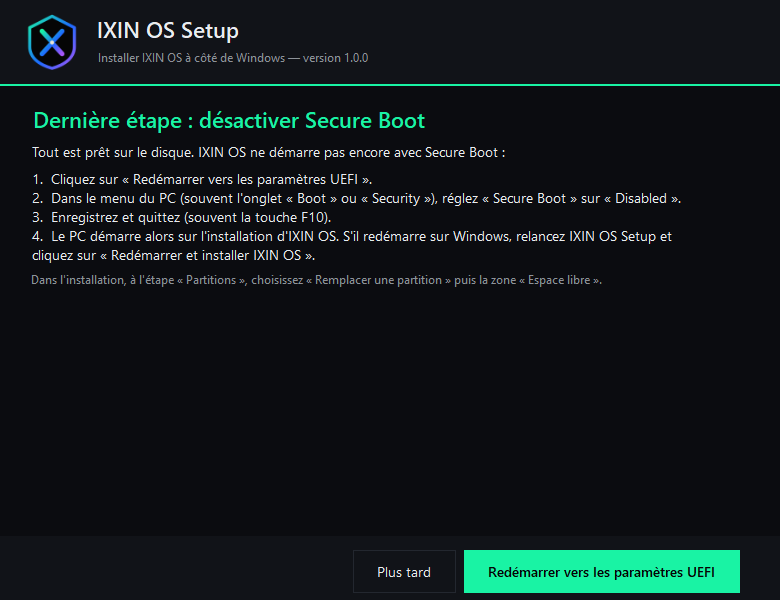
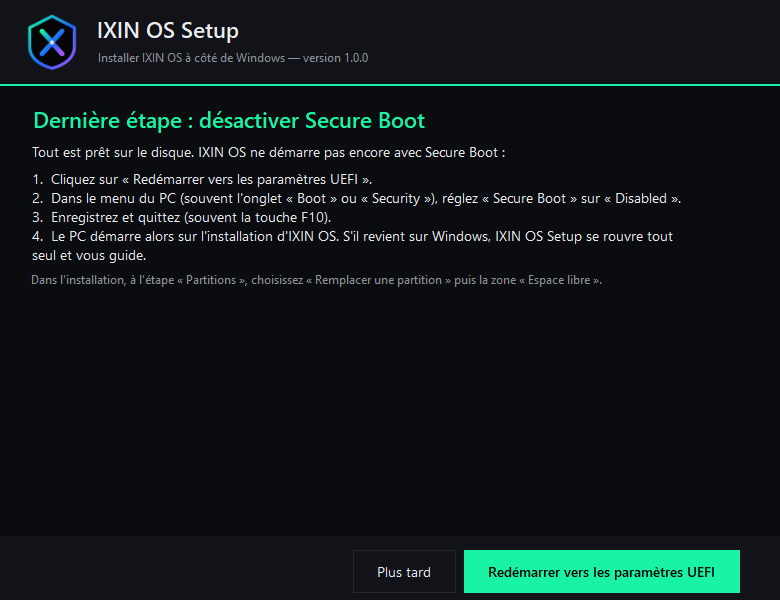
Site os.ixin.online : flux de données publié automatiquement
- tools/prepare-site-feed.py : site/ixin-os.json sur GitHub Pages (version, téléchargements avec
  tailles et SHA-256, nouveautés, guides, captures) + site/release.json, copie de secours de la
  dernière version pour IXIN OS Setup
- publié à chaque modification de docs/ et après chaque version (build-iso appelle publish-repo)
- prévient le site via Cloudflare (cache vidé, deploy hook) si ses secrets sont configurés
- nouvelles captures : retour sur Windows, Secure Boot encore actif, PC incompatible

Claude-Session: https://claude.ai/code/session_012gVJg5y5f1XFaeWzCvqDSH

Changed region(s): [[0.4615, 0.39, 0.8615, 0.42], [0.0308, 0.42, 0.4, 0.45]]

diff --git a/tools/prepare-site-feed.py b/tools/prepare-site-feed.py
@@ -1,0 +1,149 @@
+#!/usr/bin/env python3
+"""IXIN OS — flux de données du site os.ixin.online (publié sur GitHub Pages).
+
+    tools/prepare-site-feed.py <site>
+
+Écrit dans <site>/site/ :
+  ixin-os.json   tout ce que le site affiche et qui change avec les versions : version actuelle,
+                 téléchargements (taille, SHA-256, liens), nouveautés, guides, captures d'écran
+  release.json   copie de la dernière version publiée au format de l'API de GitHub : IXIN OS Setup
+                 l'utilise si l'API refuse la demande (limite de 60 demandes par heure et par adresse)
+  docs/          les guides (Markdown) et screenshots/ les captures d'écran
+
+Le site lit ces fichiers depuis https://hashcat-max.github.io/IXIN-GROUP/site/ : chaque version
+publiée et chaque modification de la documentation y apparaissent sans autre intervention.
+"""
+import datetime
+import json
+import os
+import shutil
+import sys
+import urllib.request
+
+ROOT = os.path.dirname(os.path.dirname(os.path.abspath(__file__)))
+REPOSITORY = os.environ.get("GITHUB_REPOSITORY", "hashcat-max/IXIN-GROUP")
+PAGES = "https://{}.github.io/{}".format(*REPOSITORY.split("/", 1))
+RAW = f"https://raw.githubusercontent.com/{REPOSITORY}/HEAD"
+GUIDES = [
+    ("INSTALLATION-WINDOWS.md", "Installer IXIN OS depuis Windows (sans clé USB)"),
+    ("INSTALLATION-CLE-USB.md", "Installer IXIN OS avec une clé USB (guide pour débutants)"),
+    ("MISES-A-JOUR.md", "Mises à jour d'IXIN OS (IXIN Update)"),
+    ("CONTEXTE-IXIN-OS.md", "Présentation complète d'IXIN OS (fiche de référence)"),
+]
+
+
+def get(url, accept=None):
+    req = urllib.request.Request(url, headers={"User-Agent": "ixin-site-feed"})
+    if accept:
+        req.add_header("Accept", accept)
+    token = os.environ.get("GITHUB_TOKEN") or os.environ.get("GH_TOKEN")
+    if token and url.startswith("https://api.github.com/"):
+        req.add_header("Authorization", "Bearer " + token)
+    with urllib.request.urlopen(req, timeout=60) as r:
+        return r.read()
+
+
+def main(site):
+    out = os.path.join(site, "site")
+    shutil.rmtree(out, ignore_errors=True)
+    os.makedirs(os.path.join(out, "docs"))
+
+    release = json.loads(get(f"https://api.github.com/repos/{REPOSITORY}/releases/latest",
+                             "application/vnd.github+json"))
+    assets = [{
+        "name": a["name"],
+        "size": a["size"],
+        "browser_download_url": a["browser_download_url"],
+        "digest": a.get("digest"),
+    } for a in release.get("assets", [])]
+    trimmed = {
+        "tag_name": release["tag_name"],
+        "name": release.get("name"),
+        "published_at": release.get("published_at"),
+        "html_url": release.get("html_url"),
+        "assets": assets,
+    }
+    with open(os.path.join(out, "release.json"), "w", encoding="utf-8") as f:
+        json.dump(trimmed, f, ensure_ascii=False, indent=1)
+
+    def sha(a):
+        d = a.get("digest") or ""
+        return d.split(":", 1)[1] if d.startswith("sha256:") else None
+
+    by_name = {a["name"]: a for a in assets}
+    setup = by_name.get("IXIN-OS-Setup.exe")
+    parts = sorted((a for a in assets if ".iso.part" in a["name"]), key=lambda a: a["name"])
+    sums = [a for a in assets if a["name"].endswith(".iso.sha256")]
+    iso = None
+    if parts and sums:
+        text = get(sums[0]["browser_download_url"]).decode()
+        iso_sha = text.split()[0] if text.strip() else None
+        iso = {
+            "name": sums[0]["name"][: -len(".sha256")],
+            "size": sum(a["size"] for a in parts),
+            "sha256": iso_sha,
+            "sha256_url": sums[0]["browser_download_url"],
+            "parts": [{"name": a["name"], "size": a["size"], "url": a["browser_download_url"]} for a in parts],
+        }
+
+    with open(os.path.join(ROOT, "docs", "site", "nouveautes.json"), encoding="utf-8") as f:
+        news = json.load(f)
+
+    docs = []
+    for name, title in GUIDES:
+        src = os.path.join(ROOT, "docs", name)
+        if not os.path.exists(src):
+            continue
+        shutil.copy(src, os.path.join(out, "docs", name))
+        docs.append({"title": title, "file": name, "url": f"{PAGES}/site/docs/{name}",
+                     "github": f"https://github.com/{REPOSITORY}/blob/HEAD/docs/{name}"})
+    shots = os.path.join(ROOT, "docs", "screenshots")
+    shutil.copytree(shots, os.path.join(out, "screenshots"))
+
+    feed = {
+        "format": 1,
+        "generated": datetime.datetime.now(datetime.timezone.utc).strftime("%Y-%m-%dT%H:%M:%SZ"),
+        "status": "beta",
+        "version": {
+            "tag": release["tag_name"],
+            "date": (release.get("published_at") or "")[:10],
+            "url": release.get("html_url"),
+            "all_versions": f"https://github.com/{REPOSITORY}/releases",
+        },
+        "downloads": {
+            "setup": setup and {
+                "name": setup["name"],
+                "size": setup["size"],
+                "sha256": sha(setup),
+                "url": f"https://github.com/{REPOSITORY}/releases/latest/download/IXIN-OS-Setup.exe",
+                "for": "Windows 10 / 11 (64 bits) : installation à côté de Windows, sans clé USB",
+            },
+            "iso": iso,
+        },
+        "requirements": {
+            "cpu": "PC 64 bits Intel ou AMD (x86_64)",
+            "ram_gb": 4, "ram_recommended_gb": 8,
+            "disk_gb": 40, "disk_recommended_gb": 80,
+            "boot": "UEFI (recommandé) ou BIOS",
+            "secure_boot": "à désactiver",
+        },
+        "news": news,
+        "docs": docs,
+        "screenshots": {
+            "base_url": f"{PAGES}/site/screenshots/",
+            "files": sorted(os.listdir(shots)),
+        },
+        "update_policy_url": f"{PAGES}/repo/policy.json",
+        "signing_key_fingerprint": "74DF FA0C 6B29 1E07 27EA  8A59 891C 90DD 6094 ABDF",
+        "source": f"https://github.com/{REPOSITORY}",
+    }
+    with open(os.path.join(out, "ixin-os.json"), "w", encoding="utf-8") as f:
+        json.dump(feed, f, ensure_ascii=False, indent=1)
+    print(f"flux du site : {release['tag_name']}, {len(assets)} fichiers, {len(news)} nouveautés, "
+          f"{len(docs)} guides, {len(feed['screenshots']['files'])} captures")
+
+
+if __name__ == "__main__":
+    if len(sys.argv) != 2:
+        sys.exit("usage : prepare-site-feed.py <site>")
+    main(sys.argv[1])
